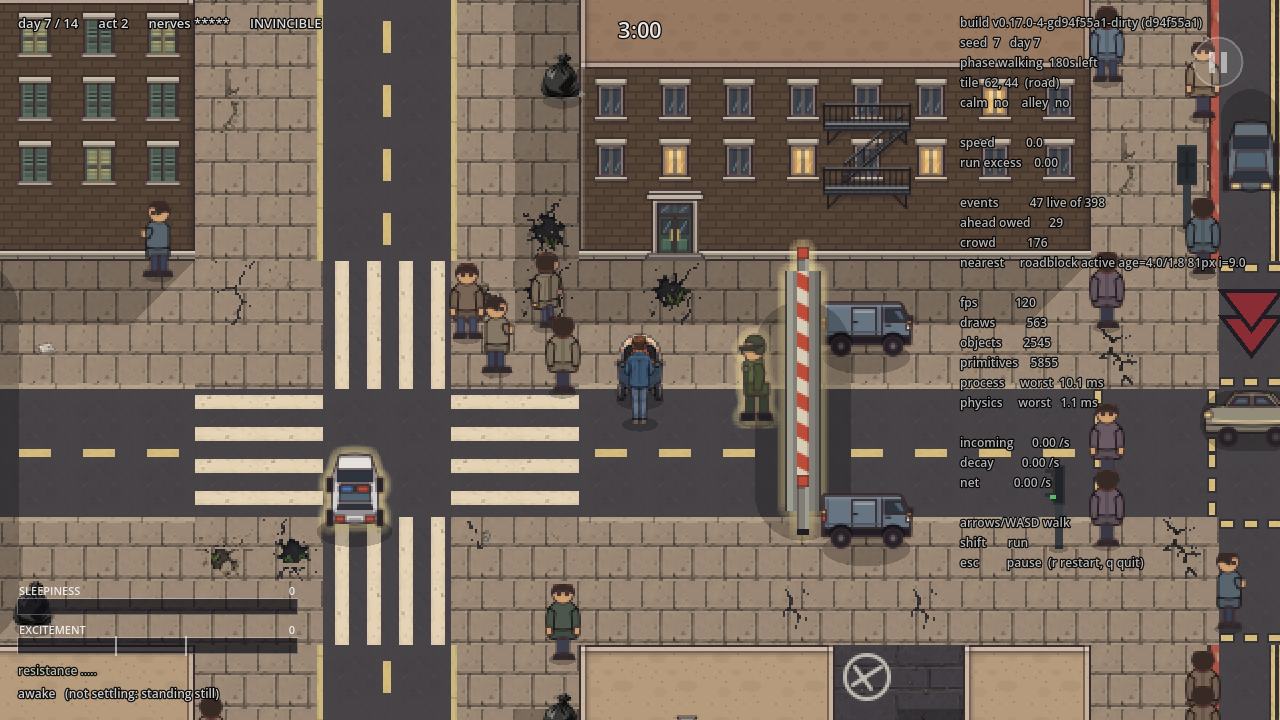
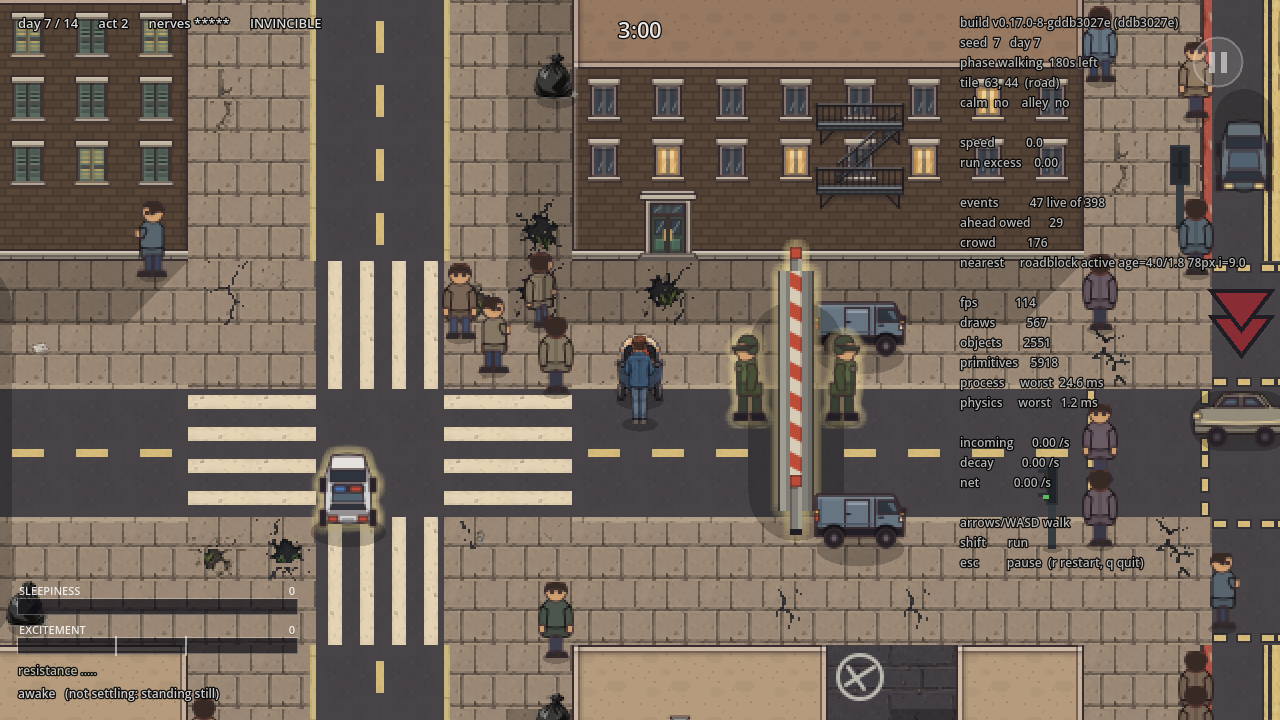
M196: evidence — both guards posted, on a column and across a street
New after stills (seed 7 column, seed 11 band, same flags as before)
now show a guard on each side of the band; the sheet's labels say a
guard stands at each post.

diff --git a/docs/evidence/m196-roadblock-end-on-2026-09-25/compose-sheet.py b/docs/evidence/m196-roadblock-end-on-2026-09-25/compose-sheet.py
@@ -12,9 +12,9 @@ OUT.png with:
     illustrated mother for scale;
   * the band assembled the way `EventInstance._draw_spread` draws it for a roadblock (60px each
     side of its centre, the segment count, stretch and end posts copied from that function), at
-    game scale and from the 4x raster: broadside with the guard at his north and south posts, and
+    game scale and from the 4x raster: broadside with a guard at each of its north and south posts, and
     down a north-south column as it was drawn before (the broadside picture stacked) and as it is
-    now (the end-on picture), with the guard at his west and east posts. The guard's feet stand at
+    now (the end-on picture), with a guard at each of its west and east posts. The guard's feet stand at
     `EventInstance._guard_post_offset()`'s arithmetic, copied here.
 
 The ground is the illustrated road tile.
@@ -164,7 +164,7 @@ def main():
     for title, seg in (("AFTER", "roadblock_segment_vertical"), ("BEFORE", "roadblock_segment")):
         a = assemble(pics, 1, seg, with_guards=title == "AFTER")
         blocks.append((f"{title}: broadside band (left) and north-south column (right), game scale"
-                       + (", guard at each of his posts" if title == "AFTER"
+                       + (", a guard at each post" if title == "AFTER"
                           else ", guard at the band's centre"),
                        a.resize((a.width * 2, a.height * 2), Image.NEAREST)))
     blocks.append(("AFTER: the same, 4x raster", assemble(pics, 4, "roadblock_segment_vertical")))
